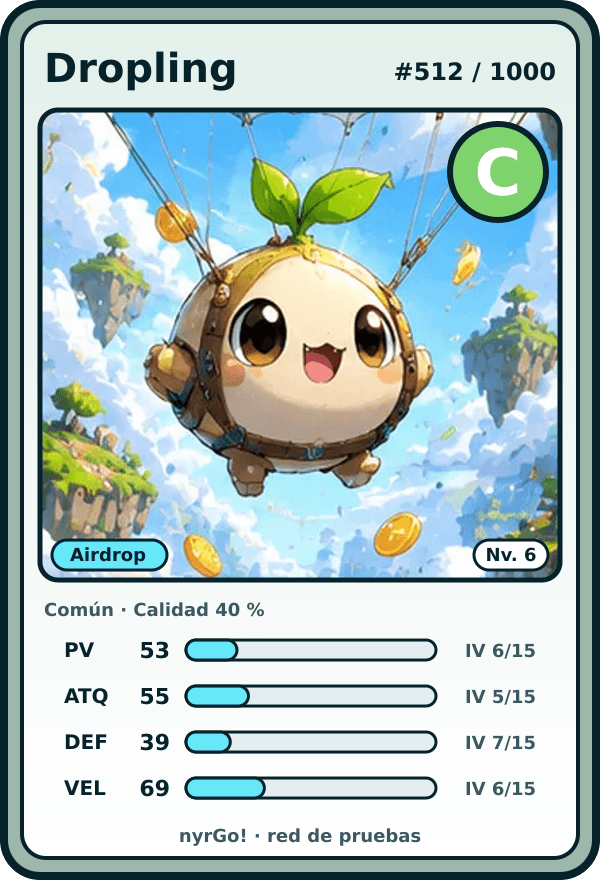
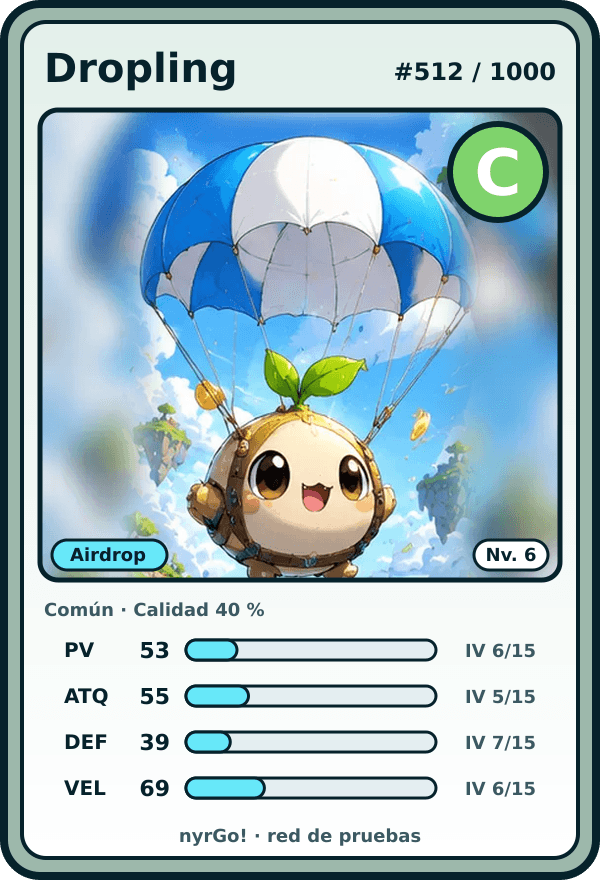
NFT cards: frame each portrait on the creature's outline
Claude-Session: https://claude.ai/code/session_017bgyuoCYkxVmouu7C5sGjs

diff --git a/apps/api/src/modules/nft/card.ts b/apps/api/src/modules/nft/card.ts
@@ -1,6 +1,7 @@
 import { readFile } from 'node:fs/promises';
 import { join } from 'node:path';
 import sharp from 'sharp';
+import { FOCUS } from './focus.js';
 import {
   CREATURES_BY_ID,
   ELEMENT_INFO,
@@ -53,6 +54,96 @@ const esc = (s: string) =>
     (c) => ({ '&': '&amp;', '<': '&lt;', '>': '&gt;', '"': '&quot;', "'": '&#39;' })[c]!,
   );
 
+/** The portrait window on the card, and the band at its bottom taken by the element and level. */
+const WIN_W = 520;
+const WIN_H = 470;
+const WIN_LABELS = 50;
+/** Share of a tall creature's box that may be cut at the bottom (feet, ground) to fill the window. */
+const MAX_FEET_CUT = 0.18;
+
+/**
+ * Crops the painted portrait so the whole creature (its box from the cut-out mask, in FOCUS)
+ * sits in the window above the labels, with a little air around it. When the creature is too
+ * tall or too wide for the painting to fill the window, the missing margin is the same painting,
+ * blurred, so nothing is ever cut off.
+ */
+export async function frameArt(portrait: Buffer, species: string): Promise<Buffer> {
+  const img = sharp(portrait);
+  const { width: iw = 0, height: ih = 0 } = await img.metadata();
+  const [fx0, fy0, fx1, fy1] = FOCUS[species] ?? [0, 0, 1, 1];
+  const bx0 = fx0 * iw;
+  const by0 = fy0 * ih;
+  const bw = (fx1 - fx0) * iw;
+  const bh = (fy1 - fy0) * ih;
+  const pad = 0.06 * Math.max(bw, bh);
+
+  // the box with its air, widened or heightened to the shape of the free part of the window
+  const aspect = WIN_W / (WIN_H - WIN_LABELS);
+  let w = bw + 2 * pad;
+  let h = bh + 2 * pad;
+  let top = by0 - pad;
+  if (w / h < aspect) {
+    // tall: if the painting is not wide enough, give up some of the feet and ground (never
+    // the head) before falling back to margins, so the creature is not a thin strip
+    const need = h * aspect;
+    if (need > iw) h = Math.max(iw / aspect, h * (1 - MAX_FEET_CUT));
+    w = h * aspect;
+  } else {
+    h = w / aspect;
+    top = by0 + bh / 2 - h / 2;
+  }
+  const cropH = (h * WIN_H) / (WIN_H - WIN_LABELS); // plus the label band below the creature
+  let x0 = bx0 + bw / 2 - w / 2;
+  let y0 = top;
+  // stay inside the painting when it is big enough, so no blurred margin is needed
+  x0 = w <= iw ? Math.min(Math.max(x0, 0), iw - w) : (iw - w) / 2;
+  y0 = cropH <= ih ? Math.min(Math.max(y0, 0), ih - cropH) : Math.min(y0, 0);
+
+  const padL = Math.ceil(Math.max(0, -x0));
+  const padT = Math.ceil(Math.max(0, -y0));
+  const padR = Math.ceil(Math.max(0, x0 + w - iw));
+  const padB = Math.ceil(Math.max(0, y0 + cropH - ih));
+  let source = portrait;
+  if (padL + padT + padR + padB > 0) {
+    const cw = iw + padL + padR;
+    const ch = ih + padT + padB;
+    const backdrop = await sharp(portrait)
+      .resize(cw, ch, { fit: 'cover' })
+      .blur(16)
+      .modulate({ brightness: 0.95, saturation: 0.9 })
+      .toBuffer();
+    // fade the painting's edges into the backdrop on the sides that have a margin
+    const f = Math.round(Math.min(iw, ih) * 0.08);
+    const edge = (padded: number) => (padded > 0 ? f : -2 * f);
+    const fade = Buffer.from(
+      `<svg xmlns="http://www.w3.org/2000/svg" width="${iw}" height="${ih}">
+        <filter id="b"><feGaussianBlur stdDeviation="${f / 2}"/></filter>
+        <rect x="${edge(padL)}" y="${edge(padT)}" width="${iw - edge(padL) - edge(padR)}"
+              height="${ih - edge(padT) - edge(padB)}" fill="#fff" filter="url(#b)"/>
+      </svg>`,
+    );
+    const soft = await sharp(portrait)
+      .ensureAlpha()
+      .composite([{ input: fade, blend: 'dest-in' }])
+      .png()
+      .toBuffer();
+    source = await sharp(backdrop)
+      .composite([{ input: soft, left: padL, top: padT }])
+      .png()
+      .toBuffer();
+  }
+  return sharp(source)
+    .extract({
+      left: Math.max(0, Math.round(x0 + padL)),
+      top: Math.max(0, Math.round(y0 + padT)),
+      width: Math.round(w),
+      height: Math.round(cropH),
+    })
+    .resize(WIN_W, WIN_H, { fit: 'fill' })
+    .png()
+    .toBuffer();
+}
+
 const W = 600;
 const H = 880;
 const INK = '#06222b';
@@ -67,11 +158,7 @@ export async function renderCard(artDir: string, d: CardData): Promise<Buffer> {
   const grade = nftGrade(d.ivs);
   const stats = instanceStats(def.stats, d.level, d.ivs);
 
-  // the painted portrait, cropped to the card's window
-  const art = await sharp(await readFile(join(artDir, 'creatures', `${def.id}.webp`)))
-    .resize(520, 470, { fit: 'cover', position: 'attention' })
-    .png()
-    .toBuffer();
+  const art = await frameArt(await readFile(join(artDir, 'creatures', `${def.id}.webp`)), def.id);
 
   const levelW = 62 + String(d.level).length * 12;
   const edition =

diff --git a/apps/api/src/modules/nft/focus.ts b/apps/api/src/modules/nft/focus.ts
@@ -1,0 +1,54 @@
+// Generated by tools/make-focus.py from the cut-out masks. Do not edit by hand.
+/** Where each creature sits in its portrait: [left, top, right, bottom], 0–1. */
+export const FOCUS: Record<string, readonly [number, number, number, number]> = {
+  airdragon: [0.034, 0.056, 0.909, 0.802],
+  bearkit: [0.062, 0.327, 0.846, 0.964],
+  blockgolem: [0.034, 0.055, 0.969, 0.984],
+  blockhound: [0.034, 0.098, 0.969, 0.975],
+  bridgetroll: [0.096, 0.375, 0.872, 0.943],
+  bullcalf: [0.049, 0.226, 0.969, 0.966],
+  bullrush: [0.044, 0.043, 0.969, 0.984],
+  burnlet: [0.052, 0.158, 0.854, 0.835],
+  byzantor: [0.034, 0.032, 0.969, 0.984],
+  claimglider: [0.049, 0.032, 0.935, 0.664],
+  coldvault: [0.057, 0.201, 0.943, 0.959],
+  copiumoth: [0.034, 0.147, 0.938, 0.867],
+  crabwalk: [0.034, 0.32, 0.969, 0.947],
+  deflagron: [0.034, 0.032, 0.958, 0.984],
+  diamondpaw: [0.112, 0.051, 0.849, 0.917],
+  dropling: [0.078, 0.056, 0.969, 0.891],
+  embernomic: [0.057, 0.052, 0.807, 0.848],
+  forkdra: [0.034, 0.053, 0.969, 0.984],
+  frostkey: [0.24, 0.161, 0.789, 0.839],
+  fuddle: [0.034, 0.295, 0.911, 0.984],
+  gasguzzle: [0.034, 0.032, 0.969, 0.984],
+  gaswarlord: [0.034, 0.066, 0.969, 0.984],
+  genesaur: [0.034, 0.061, 0.969, 0.937],
+  gmlet: [0.081, 0.193, 0.872, 0.798],
+  grizzlydump: [0.034, 0.224, 0.969, 0.984],
+  gwisp: [0.06, 0.056, 0.94, 0.984],
+  halvingon: [0.034, 0.037, 0.875, 0.904],
+  hodlberg: [0.034, 0.053, 0.969, 0.984],
+  hopiumoth: [0.034, 0.145, 0.969, 0.786],
+  leverat: [0.034, 0.236, 0.849, 0.713],
+  leviawhale: [0.049, 0.111, 0.969, 0.814],
+  liquidatron: [0.034, 0.032, 0.969, 0.977],
+  mempup: [0.036, 0.241, 0.875, 0.88],
+  moonshot: [0.109, 0.086, 0.849, 0.909],
+  oraclion: [0.055, 0.112, 0.883, 0.984],
+  ouroborchain: [0.034, 0.128, 0.969, 0.9],
+  paperpaw: [0.052, 0.276, 0.938, 0.946],
+  pebblock: [0.073, 0.278, 0.852, 0.942],
+  petagolem: [0.034, 0.127, 0.969, 0.984],
+  ruglet: [0.034, 0.438, 0.969, 0.984],
+  rugpullor: [0.034, 0.057, 0.969, 0.934],
+  seedsnatcher: [0.034, 0.254, 0.94, 0.984],
+  selenarch: [0.049, 0.145, 0.969, 0.984],
+  shrimpie: [0.109, 0.115, 0.896, 0.928],
+  stakestalk: [0.12, 0.038, 0.891, 0.984],
+  wagmight: [0.034, 0.037, 0.969, 0.855],
+  wenling: [0.034, 0.247, 0.781, 0.877],
+  yieldling: [0.076, 0.261, 0.865, 0.984],
+  yieldrasil: [0.034, 0.032, 0.969, 0.984],
+  zeroknowl: [0.117, 0.189, 0.729, 0.802],
+};

diff --git a/apps/api/scripts/nft-samples.ts b/apps/api/scripts/nft-samples.ts
@@ -1,11 +1,12 @@
 /**
  * Draws example NFT cards into docs/nft/ so the collection can be reviewed without minting:
- * one species from its worst grade to its best, and one creature of each rarity.
+ * one species from its worst grade to its best, one creature of each rarity, and every species
+ * (all.webp) to check that each portrait sits well in its frame.
  *   pnpm --filter @nyrgo/api nft:samples
  */
 import { mkdirSync, writeFileSync } from 'node:fs';
 import sharp from 'sharp';
-import { NFT_SUPPLY_BY_RARITY, CREATURES_BY_ID } from '@nyrgo/shared';
+import { CREATURES, NFT_SUPPLY_BY_RARITY, CREATURES_BY_ID } from '@nyrgo/shared';
 import { renderCard, type CardData } from '../src/modules/nft/card.js';
 
 const ART = '../web/public';
@@ -64,5 +65,29 @@ for (const [name, cards] of rows) {
     .webp({ quality: 82 })
     .toBuffer();
   writeFileSync(`${OUT}/${name}.webp`, strip);
+}
+// every species, small, to check the framing of each portrait
+{
+  const pngs = await Promise.all(
+    CREATURES.map((c) => renderCard(ART, card(c.id, 10, iv(8, 8, 8, 8), 1))),
+  );
+  const w = 200;
+  const h = 293;
+  const cols = 10;
+  const sheet = await sharp({
+    create: { width: w * cols, height: h * Math.ceil(pngs.length / cols), channels: 4, background: '#e2f8ff' },
+  })
+    .composite(
+      await Promise.all(
+        pngs.map(async (png, i) => ({
+          input: await sharp(png).resize(w, h).toBuffer(),
+          left: (i % cols) * w,
+          top: Math.floor(i / cols) * h,
+        })),
+      ),
+    )
+    .webp({ quality: 80 })
+    .toBuffer();
+  writeFileSync(`${OUT}/all.webp`, sheet);
 }
 process.stdout.write(`cards written to ${OUT}\n`);

diff --git a/tools/make-focus.py b/tools/make-focus.py
@@ -1,0 +1,45 @@
+#!/usr/bin/env python3
+"""
+Where each creature sits in its portrait, from its cut-out mask: the box the NFT card frames.
+
+Input:  art/masks/<id>.png (see cut-masks.py), cleaned like make-sprites.py does
+Output: apps/api/src/modules/nft/focus.ts  — box per creature as fractions of the portrait
+Run from the repo root: python3 tools/make-focus.py
+"""
+import importlib.util
+from pathlib import Path
+
+import numpy as np
+from PIL import Image
+
+ROOT = Path(__file__).resolve().parent.parent
+spec = importlib.util.spec_from_file_location("make_sprites", ROOT / "tools" / "make-sprites.py")
+sprites = importlib.util.module_from_spec(spec)
+spec.loader.exec_module(sprites)
+
+OUT = ROOT / "apps" / "api" / "src" / "modules" / "nft" / "focus.ts"
+
+
+def main():
+    lines = []
+    for mask in sorted((ROOT / "art" / "masks").glob("*.png")):
+        cid = mask.stem
+        portrait = Image.open(ROOT / "apps" / "web" / "public" / "creatures" / f"{cid}.webp")
+        m = np.asarray(Image.open(mask).convert("L").resize(portrait.size))
+        a = sprites.clean_mask(m, sprites.SOFT_MASK.get(cid, 0.2))
+        ys, xs = np.nonzero(a > 0.5)
+        h, w = a.shape
+        box = (xs.min() / w, ys.min() / h, (xs.max() + 1) / w, (ys.max() + 1) / h)
+        lines.append(f"  {cid}: [{', '.join(f'{v:.3f}' for v in box)}],")
+    OUT.write_text(
+        "// Generated by tools/make-focus.py from the cut-out masks. Do not edit by hand.\n"
+        "/** Where each creature sits in its portrait: [left, top, right, bottom], 0–1. */\n"
+        "export const FOCUS: Record<string, readonly [number, number, number, number]> = {\n"
+        + "\n".join(lines)
+        + "\n};\n"
+    )
+    print(f"{len(lines)} boxes → {OUT.relative_to(ROOT)}")
+
+
+if __name__ == "__main__":
+    main()

diff --git a/CHANGELOG.md b/CHANGELOG.md
@@ -1,5 +1,12 @@
 # Changelog
 
+## 0.14.1 — 2026-10-29 — NFT cards framed
+
+- Each card's portrait is framed on the creature's real outline (from its cut-out mask, in
+  `apps/api/src/modules/nft/focus.ts`, made by `tools/make-focus.py`), so no head or tail is cut
+  off. Tall creatures may lose a little ground at the feet; where the painting is too narrow the
+  side margins are the same painting, blurred and faded in. All 50 in `docs/nft/all.webp`.
+
 ## 0.14.0 — 2026-10-29 — Phase 3, part 3: the NFT collection
 
 Verified locally on 2026-10-29: format, lint, typecheck and build clean; 289 tests passing (67

diff --git a/docs/nft/README.md b/docs/nft/README.md
@@ -38,4 +38,6 @@ The grade comes from the creature's individual values (IVs, 0–15 for each of i
 Every card is drawn by the API when the token is minted and served as its image
 (`/v1/nft/cards/<token>.png`); its attributes (species, element, rarity, grade, quality, level,
 stats, edition, supply) are at `/v1/nft/tokens/<token>.json`. These examples are drawn with
-`pnpm --filter @nyrgo/api nft:samples`.
+`pnpm --filter @nyrgo/api nft:samples`; `all.webp` shows all 50 species. The portrait is framed
+on each creature's outline (`focus.ts`, regenerate with `python3 tools/make-focus.py` when the
+art changes).
